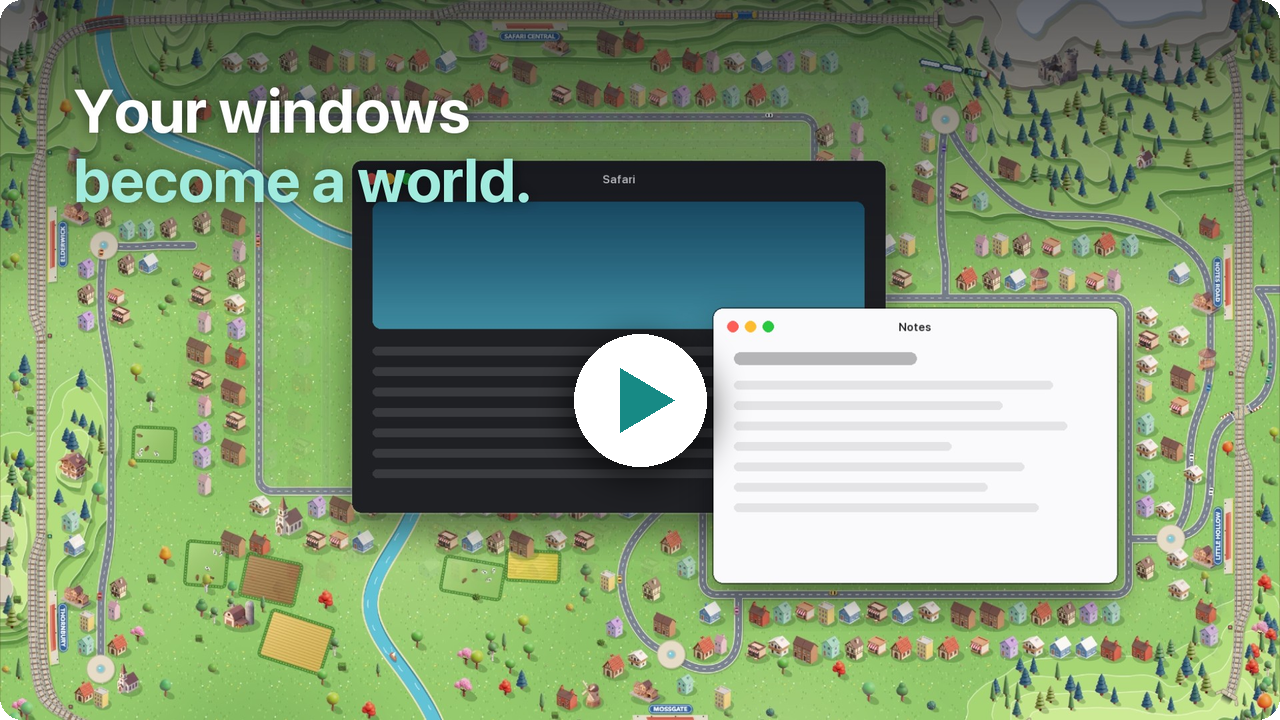
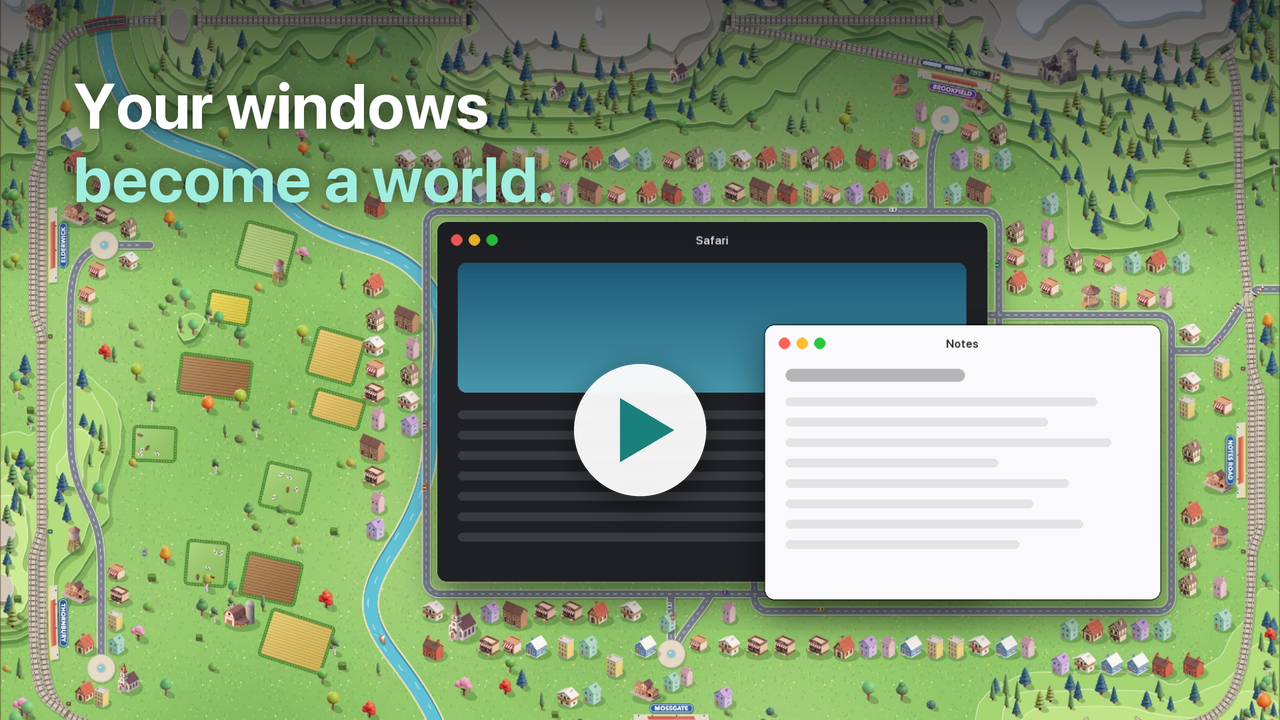
Promo v2: scripted slow-motion filming, a new poster, Sequoia install note
- Filming: --choreo (keyframed windows, Stage Manager cards, widgets and a cursor path) and --timescale (slows the
  page's clocks, timers and CSS animations so frames can be captured smoothly). The scripted cursor goes through the
  simulated-input path, so the real mouse can't leak into a take.
- README: poster from the new 38-second film; macOS 15+ dropped right-click > Open for unsigned apps, so the install
  steps now lead with Open Anyway.

diff --git a/main.swift b/main.swift
@@ -159,6 +159,21 @@ func earlyScript(fps: Double, opaque: Bool) -> String { """
 })();
 """ }
 
+/// Filming in slow motion (--timescale k): the page's clocks all run k× slower, so frames can be taken at a pace that
+/// plays back smooth at real speed
+func timescaleScript(_ k: Double) -> String { """
+(() => {
+  const k = \(k), pn = performance.now.bind(performance), t0 = pn();
+  performance.now = () => t0 + (pn() - t0) * k;
+  const dn = Date.now, d0 = dn(); Date.now = () => d0 + (dn() - d0) * k;
+  const raf = window.requestAnimationFrame.bind(window);
+  window.requestAnimationFrame = cb => raf(t => cb(t0 + (t - t0) * k));
+  const st = window.setTimeout.bind(window), si = window.setInterval.bind(window);
+  window.setTimeout = (f, d, ...a) => st(f, (d || 0) / k, ...a); window.setInterval = (f, d, ...a) => si(f, (d || 0) / k, ...a);
+  const slow = () => { try { for (const a of document.getAnimations()) if (a.playbackRate !== k) a.playbackRate = k; } catch (_) {} raf(slow); }; raf(slow);
+})();
+""" }
+
 /// Runs after the page's own scripts (globals FA/FB/commit/refresh/icons exist).
 let lateScript = """
 (() => {
@@ -272,6 +287,7 @@ final class Wallpaper: NSObject, WKScriptMessageHandler, WKNavigationDelegate {
     unlockHighRefresh(cfg.preferences)
 
     let ucc = cfg.userContentController
+    if let k = argValue("--timescale").flatMap(Double.init), k != 1 { ucc.addUserScript(WKUserScript(source: timescaleScript(k), injectionTime: .atDocumentStart, forMainFrameOnly: true)) }
     ucc.addUserScript(WKUserScript(source: earlyScript(fps: stock ? 0 : Cfg.fps, opaque: !stock && !args.contains("--no-opaque")), injectionTime: .atDocumentStart, forMainFrameOnly: true))
     ucc.addUserScript(WKUserScript(source: lateScript, injectionTime: .atDocumentEnd, forMainFrameOnly: true))
     window = NSWindow(contentRect: screen.frame, styleMask: .borderless, backing: .buffered, defer: false)
@@ -1044,7 +1060,10 @@ enum Bench {
       "showcase": [(R(250, 190, 620, 410), "Safari", false), (R(840, 430, 470, 320), "Notes", false)],
       "empty": []]
     var owners0 = ["Slack", "WhatsApp", "Notes", "Electron", "Claude", "Notification Centre"], rects0 = fixed, stage0: [CGRect] = []
-    if let name = argValue("--layout"), let l = layouts[name] { rects0 = l.map { $0.0 }; owners0 = l.map { $0.1 }; stage0 = l.filter { $0.2 }.map { $0.0 } }
+    let choreo = argValue("--choreo").flatMap { Choreo(path: $0) }
+    if let c = choreo { let a = c.at(0); rects0 = a.0; owners0 = a.1; stage0 = zip(a.0, a.2).filter { $0.1 }.map { $0.0 }
+      c.pinCursor(0) }                                     // the real mouse must not reach the page while filming
+    else if let name = argValue("--layout"), let l = layouts[name] { rects0 = l.map { $0.0 }; owners0 = l.map { $0.1 }; stage0 = l.filter { $0.2 }.map { $0.0 } }
     if !sweep { DispatchQueue.main.asyncAfter(deadline: .now() + 1.5) {
       for r in stage0 { Tracker.stageRects.insert("\(r)") }
       app.lastRects = rects0; app.lastOwners = owners0; app.dispatch(live: false) } }
@@ -1084,6 +1103,18 @@ enum Bench {
       let enc = DispatchQueue(label: "film", qos: .userInitiated, attributes: .concurrent)
       DispatchQueue.main.asyncAfter(deadline: .now() + start) {
         t0 = ProcessInfo.processInfo.systemUptime
+        let k = Double(argValue("--timescale") ?? "1") ?? 1
+        if let c = choreo {                                  // scripted: windows, Stage Manager cards, widgets, the cursor
+          var prev: [CGRect] = []
+          Timer.scheduledTimer(withTimeInterval: 1.0 / 60, repeats: true) { tm in
+            let t = (ProcessInfo.processInfo.systemUptime - t0) * k, (r, o, sm) = c.at(t)
+            Tracker.stageRects = Set(zip(r, sm).filter { $0.1 }.map { "\($0.0)" })
+            app.lastRects = r; app.lastOwners = o; app.dispatch(live: r != prev && r.count == prev.count); prev = r
+            c.pinCursor(t)
+            if let p = c.cursor(t), let w = app.walls.values.first(where: { $0.cgFrame.origin == .zero }) { w.cursor(p) }
+            if t > dur { tm.invalidate(); app.dispatch(live: false) }
+          }
+        } else {
         Timer.scheduledTimer(withTimeInterval: 1.0 / 60, repeats: true) { tm in
           let t = ProcessInfo.processInfo.systemUptime - t0, a = 0.35, b = dur - 0.7
           let u = max(0, min(1, (t - a) / (b - a))), e = u * u * u * (u * (u * 6 - 15) + 10)       // smootherstep
@@ -1091,8 +1122,9 @@ enum Bench {
           app.dispatch(live: t > a && t < b)
           if t > dur { tm.invalidate(); app.dispatch(live: false) }
         }
+        }
         func shoot() {
-          let t = ProcessInfo.processInfo.systemUptime - t0
+          let t = (ProcessInfo.processInfo.systemUptime - t0) * k
           guard t <= dur, let w = app.walls.values.first(where: { $0.cgFrame.origin == .zero }) else { return }
           let cfg = WKSnapshotConfiguration(); cfg.snapshotWidth = NSNumber(value: width / 2)   // in points: ×2 on a retina screen
           w.web.takeSnapshot(with: cfg) { img, _ in
@@ -1151,3 +1183,37 @@ extension NSFont { func withWeight(_ w: NSFont.Weight) -> NSFont { NSFont.system
 
 /// a web view's content process id (private, guarded: -1 if it ever goes away)
 func webPid(_ w: WKWebView) -> Int { w.responds(to: NSSelectorFromString("_webProcessIdentifier")) ? (w.value(forKey: "_webProcessIdentifier") as? Int) ?? -1 : -1 }
+
+/// A scripted desktop for filming (--choreo file.json): windows with keyframes [[t, x, y, w, h], …] (eased between),
+/// optional "from"/"until" times, Stage Manager cards ("sm": true), and a cursor path [[t, x, y], …]. Points, scene seconds.
+struct Choreo {
+  struct Win { let name: String; let keys: [[Double]]; let from: Double; let until: Double; let sm: Bool }
+  let wins: [Win]; let cur: [[Double]]
+  init?(path: String) {
+    guard let d = try? Data(contentsOf: URL(fileURLWithPath: path)), let o = try? JSONSerialization.jsonObject(with: d) as? [String: Any] else { return nil }
+    wins = (o["windows"] as? [[String: Any]] ?? []).map { w in Win(name: w["name"] as? String ?? "", keys: w["keys"] as? [[Double]] ?? [], from: w["from"] as? Double ?? -1e9,
+                                                                   until: w["until"] as? Double ?? 1e9, sm: w["sm"] as? Bool ?? false) }
+    cur = o["cursor"] as? [[Double]] ?? []
+  }
+  static func ease(_ keys: [[Double]], _ t: Double) -> [Double] {
+    guard let f = keys.first else { return [] }
+    if t <= f[0] { return Array(f.dropFirst()) }
+    for (a, b) in zip(keys, keys.dropFirst()) where t <= b[0] {
+      let u = (t - a[0]) / max(1e-6, b[0] - a[0]), e = u * u * u * (u * (u * 6 - 15) + 10)
+      return zip(a.dropFirst(), b.dropFirst()).map { $0 + ($1 - $0) * e } }
+    return Array(keys.last!.dropFirst())
+  }
+  func at(_ t: Double) -> ([CGRect], [String], [Bool]) {
+    var r: [CGRect] = [], o: [String] = [], sm: [Bool] = []
+    for w in wins where t >= w.from && t < w.until { let v = Choreo.ease(w.keys, t); guard v.count == 4 else { continue }
+      r.append(CGRect(x: v[0], y: v[1], width: v[2], height: v[3])); o.append(w.name); sm.append(w.sm) }
+    return (r, o, sm)
+  }
+  func cursor(_ t: Double) -> CGPoint? { let v = Choreo.ease(cur, t); return v.count == 2 ? CGPoint(x: v[0], y: v[1]) : nil }
+  /// Routes the scripted cursor through the tracker's simulated-input path, so the Mac's real mouse (still polled by the
+  /// tracker) can't send competing positions mid-take. No scripted cursor: parked far off screen.
+  func pinCursor(_ t: Double) {
+    let h = NSScreen.screens.first?.frame.height ?? 0, p = cursor(t) ?? CGPoint(x: -4000, y: -4000)
+    SimInput.point = NSPoint(x: p.x, y: h - p.y)
+  }
+}

diff --git a/README.md b/README.md
@@ -5,8 +5,8 @@
 <p align="center">A live wallpaper for macOS that flows around your windows.<br>
 Move a window and the world grows, parts and settles around it.</p>
 
-<p align="center"><a href="https://github.com/Keshav-Madhav/tidewall/releases/download/v1.0.1/tidewall-promo.mp4"><img src="docs/promo-poster.png" width="860" alt="Watch the 25-second film"></a><br>
-<sub><a href="https://github.com/Keshav-Madhav/tidewall/releases/download/v1.0.1/tidewall-promo.mp4">▶ Watch the 25-second film</a> · <a href="https://github.com/Keshav-Madhav/tidewall/releases/latest">Download Tidewall</a></sub></p>
+<p align="center"><a href="https://github.com/Keshav-Madhav/tidewall/releases/download/v1.0.1/tidewall-promo.mp4"><img src="docs/promo-poster.png" width="860" alt="Watch the 38-second film"></a><br>
+<sub><a href="https://github.com/Keshav-Madhav/tidewall/releases/download/v1.0.1/tidewall-promo.mp4">▶ Watch the 38-second film</a> · <a href="https://github.com/Keshav-Madhav/tidewall/releases/latest">Download Tidewall</a></sub></p>
 
 <p align="center"><img src="docs/app.png" width="860" alt="The Tidewall window: a live preview of Model Railway on your own desktop, with the theme gallery below"></p>
 
@@ -42,7 +42,8 @@ can have its own theme.
 2. Move **Tidewall.app** to your Applications folder.
 3. Open it. The first time, macOS will say it can't check the app for malicious software, because Tidewall isn't
    signed with a paid Apple developer certificate. Open **System Settings ▸ Privacy & Security**, scroll down and
-   click **Open Anyway** (or right-click the app and choose **Open**). You only need to do this once.
+   click **Open Anyway**, then confirm. You only need to do this once. (On macOS 14 you can also right-click the app
+   and choose **Open**; macOS 15 and later removed that shortcut.)
 
 Requires macOS 14 Sonoma or later, on Apple silicon or Intel.
 

diff --git a/CLAUDE.md b/CLAUDE.md
@@ -34,6 +34,8 @@ tools/check-pages.sh                        # syntax-check every page's scripts 
 tools/thumbs.sh <theme>                     # regenerate a gallery thumbnail
 tools/mem.sh <theme> [--small]              # memory footprint of a theme's page
 ./tidewall --bench … --film DIR --film-start S --film-dur S --film-move dx,dy   # promo footage: timestamped 1920 px frames while a window glides
+./tidewall --bench … --film DIR --choreo shot.json --timescale 0.4   # scripted desktop (keyframed windows, Stage Manager cards, cursor path)
+                                                                       # in slow motion: the page's clocks run 0.4×, so frames play back smooth
 ./tidewall --ui-only --demo …               # the app window plays a scripted demo (a cursor drags the preview's window)
 ```
 
